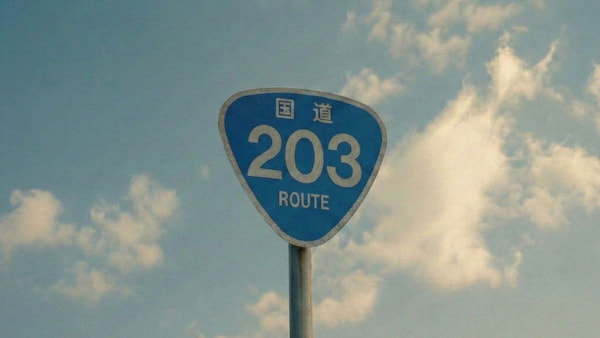
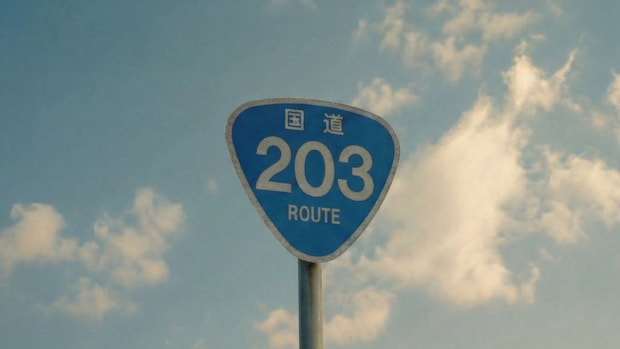
feat: refs #13 add Retina display support for top image

diff --git a/public/index.html b/public/index.html
@@ -82,16 +82,27 @@
           <picture>
             <source
               type="image/webp"
-              srcset="images/top.webp"
-              width="600"
-              height="338"
+              srcset="
+                images/top.webp     620w,
+                images/top@2x.webp 1240w,
+                images/top@3x.webp 1860w
+              "
+              sizes="(max-width: 767px) 80vw, 30vw"
+              width="620"
+              height="350"
             />
             <img
               src="images/top.jpg"
+              srcset="
+                images/top.jpg     620w,
+                images/top@2x.jpg 1240w,
+                images/top@3x.jpg 1860w
+              "
+              sizes="(max-width: 767px) 80vw, 30vw"
               alt=""
               fetchpriority="high"
-              width="600"
-              height="338"
+              width="620"
+              height="350"
             />
           </picture>
         </div>

diff --git a/docs/top_image_retina.md b/docs/top_image_retina.md
@@ -1,0 +1,63 @@
+# トップ画像のRetinaディスプレイ対応
+
+## 対象画像
+
+トップ画像（`public/images/top.*`）
+
+## 画像サイズ
+
+CSS での表示サイズを基準に、1x / 2x / 3x の画像を用意する。
+
+| 解像度 | サイズ      | ファイル名                   |
+| ------ | ----------- | ---------------------------- |
+| 1x     | 620 x 350   | `top.webp` / `top.jpg`       |
+| 2x     | 1240 x 700  | `top@2x.webp` / `top@2x.jpg` |
+| 3x     | 1860 x 1050 | `top@3x.webp` / `top@3x.jpg` |
+
+1x のサイズはモバイル表示時の最大幅（767px × 100% × 80% ≒ 614px）を基準に、切りよく 620px とした。
+
+## srcset / sizes の仕組み
+
+### srcset の `w` 記述子
+
+```html
+srcset="images/top.webp 620w, images/top@2x.webp 1240w, images/top@3x.webp
+1860w"
+```
+
+`w` は画像ファイルの実際のピクセル幅を表す。ブラウザに画像の横幅を伝える役割。
+
+### sizes
+
+```html
+sizes="(max-width: 767px) 80vw, 30vw"
+```
+
+画像が画面上でどのくらいの幅で表示されるかをブラウザに伝える。
+
+- `(max-width: 767px) 80vw` → モバイル: ビューポート幅の 80%
+- `30vw` → デスクトップ: ビューポート幅の 30%（768px × 50% × 80% 相当）
+
+### ブラウザの選択ロジック
+
+ブラウザは `sizes` とデバイスのピクセル密度（DPR）を掛け合わせて、`srcset` から最適な画像を選択する。
+
+**例: iPhone（375px 幅、DPR 3x）**
+
+1. 表示幅 = 375 × 80% = 300px
+2. 必要なピクセル = 300 × 3 = 900px
+3. `srcset` から 900px 以上で最も近い `1240w` を選択
+
+**例: デスクトップ（1440px 幅、DPR 1x）**
+
+1. 表示幅 = 1440 × 30% = 432px
+2. 必要なピクセル = 432 × 1 = 432px
+3. `srcset` から `620w` を選択
+
+### width / height 属性
+
+```html
+width="620" height="350"
+```
+
+レイアウトシフト（CLS）防止用。画像読み込み前にアスペクト比（620:350）を確保してスペースを予約する。実際の表示サイズは CSS で制御される。
